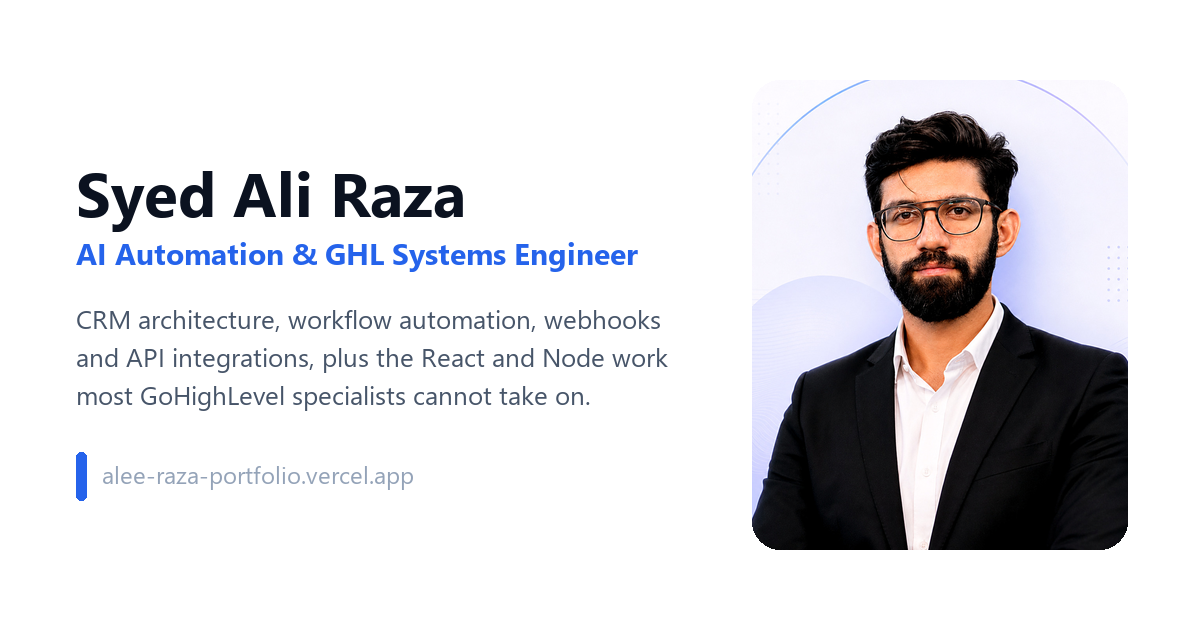
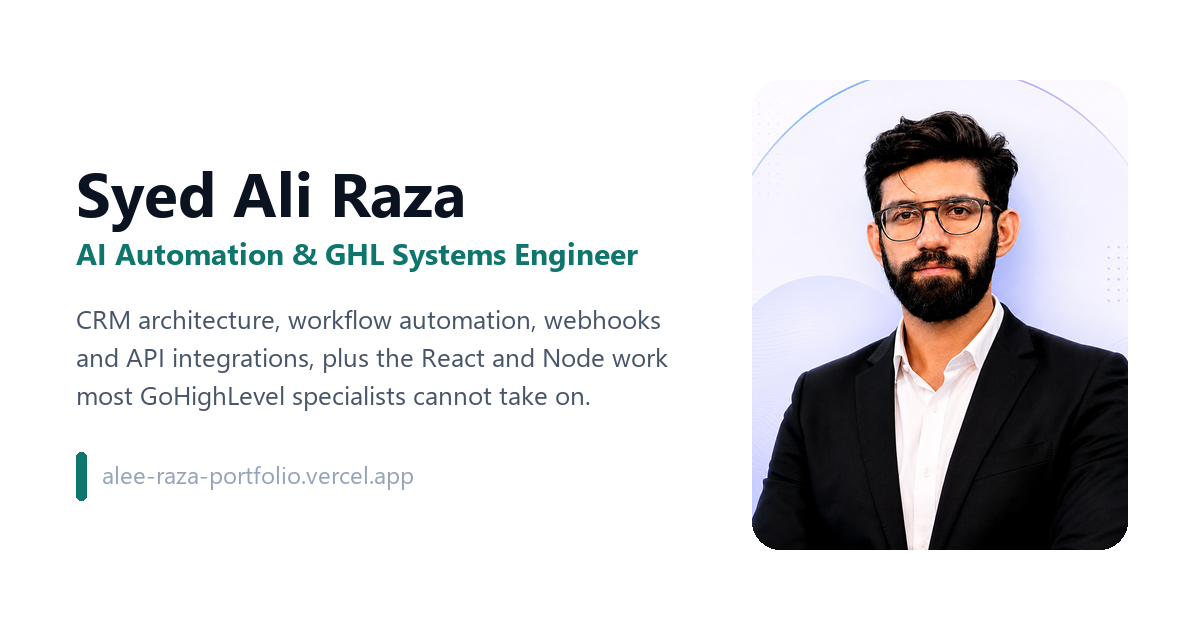
Switch the accent from blue to deep teal
Every dev portfolio on a GoHighLevel job board is blue. Teal reads closer
to the systems and infrastructure work the site is actually about, and it
separates the site's own chrome from the blue and teal charts inside the
case study screenshots.

Retuned the four accent tokens plus the hardcoded values the tokens could
not reach: the three drifting hero blobs, the portrait bloom, the tilt
card spotlight and the scroll progress gradient. Regenerated the app icon,
favicon and social preview image to match.

Contrast against the page is 5.47:1, so it clears WCAG AA for text.

Changed region(s): [[0.0617, 0.3921, 0.555, 0.4222], [0.0617, 0.7238, 0.0925, 0.7841]]

diff --git a/src/components/Hero.tsx b/src/components/Hero.tsx
@@ -30,17 +30,17 @@ export default function Hero() {
       {/* Drifting colour blobs behind everything. Decorative only. */}
       <div aria-hidden="true" className="pointer-events-none absolute inset-0 -z-10">
         <motion.div
-          className="absolute -left-24 -top-32 h-[26rem] w-[26rem] rounded-full bg-[radial-gradient(circle,rgba(37,99,235,0.16),transparent_68%)] blur-2xl"
+          className="absolute -left-24 -top-32 h-[26rem] w-[26rem] rounded-full bg-[radial-gradient(circle,rgba(15,118,110,0.18),transparent_68%)] blur-2xl"
           animate={reduced ? {} : { x: [0, 60, -20, 0], y: [0, 40, 20, 0] }}
           transition={{ duration: 20, repeat: Infinity, ease: "easeInOut" }}
         />
         <motion.div
-          className="absolute -right-20 top-8 h-[24rem] w-[24rem] rounded-full bg-[radial-gradient(circle,rgba(124,58,237,0.13),transparent_68%)] blur-2xl"
+          className="absolute -right-20 top-8 h-[24rem] w-[24rem] rounded-full bg-[radial-gradient(circle,rgba(13,148,136,0.14),transparent_68%)] blur-2xl"
           animate={reduced ? {} : { x: [0, -50, 25, 0], y: [0, 35, -15, 0] }}
           transition={{ duration: 24, repeat: Infinity, ease: "easeInOut" }}
         />
         <motion.div
-          className="absolute left-1/3 top-56 h-[20rem] w-[20rem] rounded-full bg-[radial-gradient(circle,rgba(14,165,233,0.12),transparent_68%)] blur-2xl"
+          className="absolute left-1/3 top-56 h-[20rem] w-[20rem] rounded-full bg-[radial-gradient(circle,rgba(6,148,162,0.12),transparent_68%)] blur-2xl"
           animate={reduced ? {} : { x: [0, 40, -35, 0], y: [0, -30, 25, 0] }}
           transition={{ duration: 28, repeat: Infinity, ease: "easeInOut" }}
         />
@@ -145,7 +145,7 @@ export default function Hero() {
               {/* Soft accent bloom sitting behind the panel */}
               <div
                 aria-hidden="true"
-                className="absolute -inset-6 -z-10 rounded-[3rem] bg-[radial-gradient(60%_60%_at_50%_35%,rgba(37,99,235,0.22),transparent_70%)] blur-2xl"
+                className="absolute -inset-6 -z-10 rounded-[3rem] bg-[radial-gradient(60%_60%_at_50%_35%,rgba(15,118,110,0.24),transparent_70%)] blur-2xl"
               />
 
               <div className="relative aspect-[4/5] overflow-hidden rounded-[1.75rem] border border-line bg-surface shadow-[0_30px_70px_-30px_rgba(11,18,32,0.5)]">

diff --git a/src/components/TiltCard.tsx b/src/components/TiltCard.tsx
@@ -39,7 +39,7 @@ export default function TiltCard({
   const rotateX = useSpring(tiltX, spring);
   const rotateY = useSpring(tiltY, spring);
 
-  const spotlight = useMotionTemplate`radial-gradient(340px circle at ${mouseX}px ${mouseY}px, rgba(37,99,235,0.10), transparent 72%)`;
+  const spotlight = useMotionTemplate`radial-gradient(340px circle at ${mouseX}px ${mouseY}px, rgba(15,118,110,0.10), transparent 72%)`;
 
   function handleMove(event: React.PointerEvent<HTMLDivElement>) {
     if (reduced || event.pointerType !== "mouse") return;

diff --git a/src/app/globals.css b/src/app/globals.css
@@ -13,10 +13,10 @@
   --color-surface: #f7f9fc;
   --color-canvas: #ffffff;
 
-  --color-accent: #2563eb;
-  --color-accent-hover: #1d4ed8;
-  --color-accent-soft: #eff4ff;
-  --color-accent-line: #d3e0fd;
+  --color-accent: #0f766e;
+  --color-accent-hover: #0b5f59;
+  --color-accent-soft: #effbf8;
+  --color-accent-line: #b8e5dd;
 
   --font-sans: var(--font-geist-sans), ui-sans-serif, system-ui, sans-serif;
   --font-mono: var(--font-geist-mono), ui-monospace, monospace;

diff --git a/src/components/ScrollProgress.tsx b/src/components/ScrollProgress.tsx
@@ -15,7 +15,7 @@ export default function ScrollProgress() {
     <motion.div
       aria-hidden="true"
       style={{ scaleX }}
-      className="fixed inset-x-0 top-0 z-[60] h-[3px] origin-left bg-[linear-gradient(90deg,var(--color-accent),#7c3aed,var(--color-accent))]"
+      className="fixed inset-x-0 top-0 z-[60] h-[3px] origin-left bg-[linear-gradient(90deg,var(--color-accent),#0d9488,var(--color-accent))]"
     />
   );
 }
